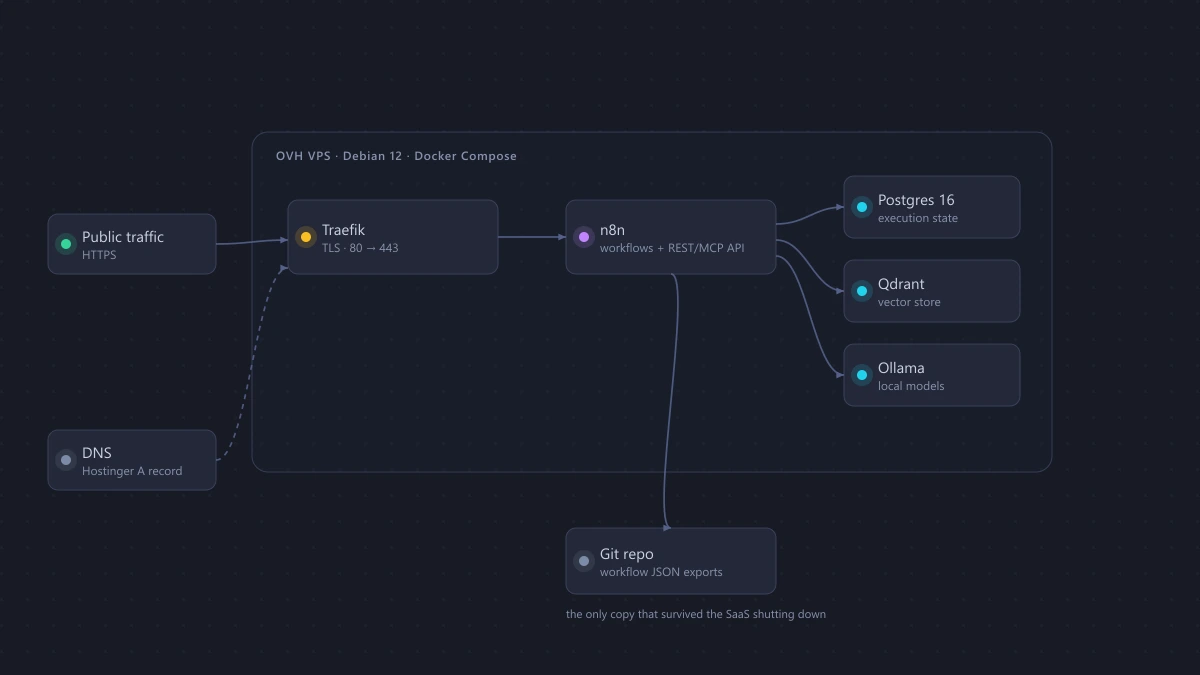
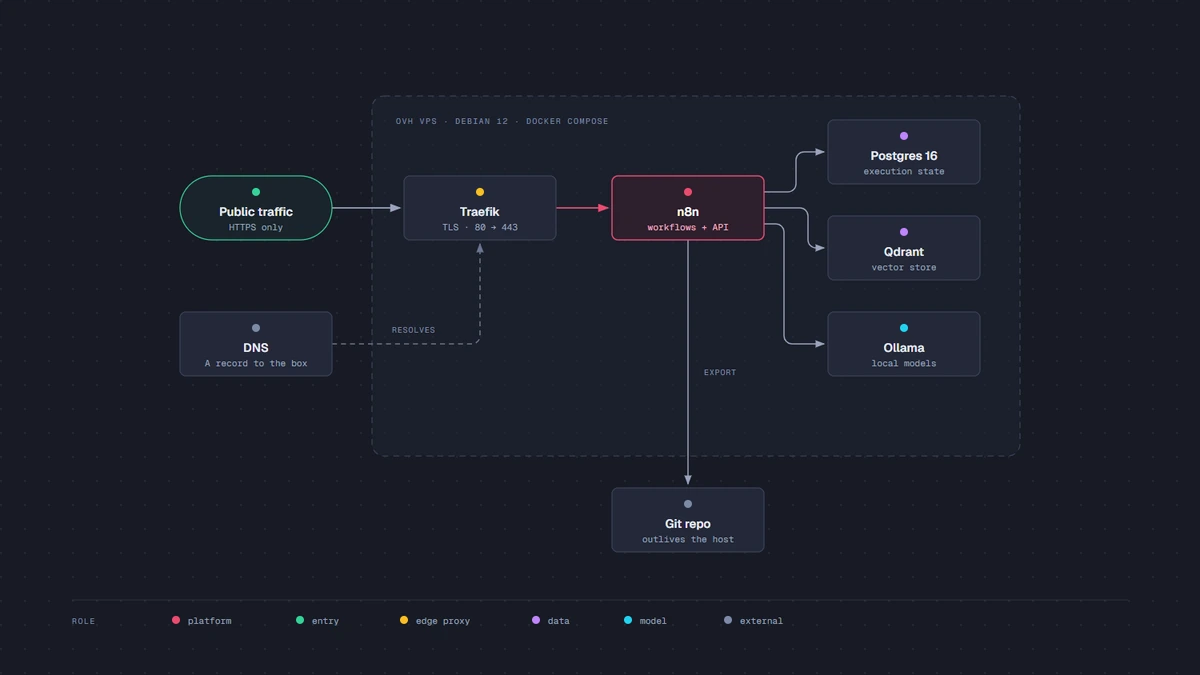
redraw the platform architecture diagram

diff --git a/scripts/diagrams/platform-architecture.html b/scripts/diagrams/platform-architecture.html
@@ -1,0 +1,137 @@
+<!DOCTYPE html>
+<html lang="en">
+<head>
+  <meta charset="UTF-8">
+  <title>Self-hosted automation platform</title>
+  <link href="https://fonts.googleapis.com/css2?family=Geist:wght@400;500;600&family=Geist+Mono:wght@400;500;600&display=swap" rel="stylesheet">
+  <style>
+    *, *::before, *::after { box-sizing: border-box; margin: 0; padding: 0; }
+    body { background: #171a24; font-family: 'Geist', system-ui, sans-serif; }
+    svg#d { width: 1200px; height: 675px; display: block; }
+  </style>
+</head>
+<body>
+  <svg id="d" viewBox="0 0 1200 675" xmlns="http://www.w3.org/2000/svg"
+       role="img" aria-labelledby="arch-title arch-desc">
+    <title id="arch-title">Self-hosted automation platform</title>
+    <desc id="arch-desc">Public traffic reaches a VPS through Traefik, which terminates TLS and hands requests to n8n. n8n keeps execution state in Postgres, vectors in Qdrant and runs local models through Ollama. DNS resolves the name to the box, and every workflow is exported to a git repository that lives outside the host.</desc>
+
+    <defs>
+      <marker id="arrow" markerWidth="8" markerHeight="6" refX="7" refY="3" orient="auto"><polygon points="0 0, 8 3, 0 6" fill="#9aa4bd"/></marker>
+      <marker id="arrow-accent" markerWidth="8" markerHeight="6" refX="7" refY="3" orient="auto"><polygon points="0 0, 8 3, 0 6" fill="#ea4b71"/></marker>
+      <marker id="arrow-soft" markerWidth="8" markerHeight="6" refX="7" refY="3" orient="auto"><polygon points="0 0, 8 3, 0 6" fill="#6b7590"/></marker>
+      <pattern id="dots" width="24" height="24" patternUnits="userSpaceOnUse"><circle cx="1" cy="1" r="1" fill="rgba(232,236,245,0.07)"/></pattern>
+    </defs>
+
+    <rect width="100%" height="100%" fill="#171a24"/>
+    <rect width="100%" height="100%" fill="url(#dots)"/>
+
+    <!-- ══ the host boundary: everything inside is one compose stack on one box ══ -->
+    <rect x="372" y="96" width="648" height="360" rx="12" fill="rgba(35,40,56,0.35)" stroke="#39415a" stroke-width="1" stroke-dasharray="6 5"/>
+    <text x="396" y="124" fill="#7f8aa5" font-size="8" font-family="'Geist Mono', monospace" letter-spacing="0.14em">OVH VPS · DEBIAN 12 · DOCKER COMPOSE</text>
+
+    <!-- ══ arrows first, so nodes paint over the stroke ends ══ -->
+
+    <!-- traffic in -->
+    <line x1="332" y1="208" x2="400" y2="208" stroke="#9aa4bd" stroke-width="1.4" marker-end="url(#arrow)"/>
+    <!-- the accented leg: the edge handing requests to the platform itself -->
+    <line x1="556" y1="208" x2="608" y2="208" stroke="#ea4b71" stroke-width="1.4" marker-end="url(#arrow-accent)"/>
+
+    <!-- name resolution is not traffic, so it is drawn dashed -->
+    <path d="M332,344 H472 a8,8 0 0 0 8,-8 V244"
+          fill="none" stroke="#6b7590" stroke-width="1.2" stroke-dasharray="5 4" marker-end="url(#arrow-soft)"/>
+    <!-- Label masks sit inside the boundary, so they take its blended fill
+         (#1b1f2b), not the page colour — a page-colour mask shows as a box. -->
+    <rect x="388" y="322" width="64" height="14" rx="2" fill="#1b1f2b"/>
+    <text x="392" y="333" fill="#7f8aa5" font-size="8" font-family="'Geist Mono', monospace" letter-spacing="0.08em">RESOLVES</text>
+
+    <!-- n8n to its three backing services: own attach point and own elbow each -->
+    <path d="M764,192 H788 a8,8 0 0 0 8,-8 V160 a8,8 0 0 1 8,-8 H824"
+          fill="none" stroke="#9aa4bd" stroke-width="1.2" marker-end="url(#arrow)"/>
+    <path d="M764,208 H800 a8,8 0 0 1 8,8 V240 a8,8 0 0 0 8,8 H824"
+          fill="none" stroke="#9aa4bd" stroke-width="1.2" marker-end="url(#arrow)"/>
+    <path d="M764,224 H776 a8,8 0 0 1 8,8 V336 a8,8 0 0 0 8,8 H824"
+          fill="none" stroke="#9aa4bd" stroke-width="1.2" marker-end="url(#arrow)"/>
+
+    <!-- the export leaves the box on purpose -->
+    <line x1="688" y1="240" x2="688" y2="484" stroke="#9aa4bd" stroke-width="1.2" marker-end="url(#arrow)"/>
+    <rect x="700" y="364" width="52" height="14" rx="2" fill="#1b1f2b"/>
+    <text x="704" y="375" fill="#7f8aa5" font-size="8" font-family="'Geist Mono', monospace" letter-spacing="0.08em">EXPORT</text>
+
+    <!-- ══ nodes ══ -->
+
+    <!-- public traffic (entry) -->
+    <rect x="180" y="176" width="152" height="64" rx="32" fill="#171a24"/>
+    <rect x="180" y="176" width="152" height="64" rx="32" fill="rgba(52,211,153,0.06)" stroke="#34d399" stroke-width="1"/>
+    <circle cx="256" cy="192" r="4" fill="#34d399"/>
+    <text x="256" y="216" fill="#e8ecf5" font-size="12" font-weight="600" text-anchor="middle">Public traffic</text>
+    <text x="256" y="230" fill="#9aa4bd" font-size="9" font-family="'Geist Mono', monospace" text-anchor="middle">HTTPS only</text>
+
+    <!-- DNS (external) -->
+    <rect x="180" y="312" width="152" height="64" rx="6" fill="#171a24"/>
+    <rect x="180" y="312" width="152" height="64" rx="6" fill="#232838" stroke="#39415a" stroke-width="1"/>
+    <circle cx="256" cy="328" r="4" fill="#7c8aa8"/>
+    <text x="256" y="352" fill="#e8ecf5" font-size="12" font-weight="600" text-anchor="middle">DNS</text>
+    <text x="256" y="366" fill="#9aa4bd" font-size="9" font-family="'Geist Mono', monospace" text-anchor="middle">A record to the box</text>
+
+    <!-- Traefik (edge) -->
+    <rect x="404" y="176" width="152" height="64" rx="6" fill="#171a24"/>
+    <rect x="404" y="176" width="152" height="64" rx="6" fill="#232838" stroke="#39415a" stroke-width="1"/>
+    <circle cx="480" cy="192" r="4" fill="#fbbf24"/>
+    <text x="480" y="216" fill="#e8ecf5" font-size="12" font-weight="600" text-anchor="middle">Traefik</text>
+    <text x="480" y="230" fill="#9aa4bd" font-size="9" font-family="'Geist Mono', monospace" text-anchor="middle">TLS · 80 → 443</text>
+
+    <!-- n8n — FOCAL: the platform the rest exists to serve -->
+    <rect x="612" y="176" width="152" height="64" rx="6" fill="#171a24"/>
+    <rect x="612" y="176" width="152" height="64" rx="6" fill="rgba(234,75,113,0.10)" stroke="#ea4b71" stroke-width="1.2"/>
+    <circle cx="688" cy="192" r="4" fill="#ea4b71"/>
+    <text x="688" y="216" fill="#ffffff" font-size="12" font-weight="600" text-anchor="middle">n8n</text>
+    <text x="688" y="230" fill="#f3aec0" font-size="9" font-family="'Geist Mono', monospace" text-anchor="middle">workflows + API</text>
+
+    <!-- Postgres (data) -->
+    <rect x="828" y="120" width="152" height="64" rx="6" fill="#171a24"/>
+    <rect x="828" y="120" width="152" height="64" rx="6" fill="#232838" stroke="#39415a" stroke-width="1"/>
+    <circle cx="904" cy="136" r="4" fill="#c084fc"/>
+    <text x="904" y="160" fill="#e8ecf5" font-size="12" font-weight="600" text-anchor="middle">Postgres 16</text>
+    <text x="904" y="174" fill="#9aa4bd" font-size="9" font-family="'Geist Mono', monospace" text-anchor="middle">execution state</text>
+
+    <!-- Qdrant (data) -->
+    <rect x="828" y="216" width="152" height="64" rx="6" fill="#171a24"/>
+    <rect x="828" y="216" width="152" height="64" rx="6" fill="#232838" stroke="#39415a" stroke-width="1"/>
+    <circle cx="904" cy="232" r="4" fill="#c084fc"/>
+    <text x="904" y="256" fill="#e8ecf5" font-size="12" font-weight="600" text-anchor="middle">Qdrant</text>
+    <text x="904" y="270" fill="#9aa4bd" font-size="9" font-family="'Geist Mono', monospace" text-anchor="middle">vector store</text>
+
+    <!-- Ollama (model) -->
+    <rect x="828" y="312" width="152" height="64" rx="6" fill="#171a24"/>
+    <rect x="828" y="312" width="152" height="64" rx="6" fill="#232838" stroke="#39415a" stroke-width="1"/>
+    <circle cx="904" cy="328" r="4" fill="#22d3ee"/>
+    <text x="904" y="352" fill="#e8ecf5" font-size="12" font-weight="600" text-anchor="middle">Ollama</text>
+    <text x="904" y="366" fill="#9aa4bd" font-size="9" font-family="'Geist Mono', monospace" text-anchor="middle">local models</text>
+
+    <!-- Git repo (external) — outside the boundary, because a backup on the
+         machine it is backing up is not a backup -->
+    <rect x="612" y="488" width="152" height="64" rx="6" fill="#171a24"/>
+    <rect x="612" y="488" width="152" height="64" rx="6" fill="#232838" stroke="#39415a" stroke-width="1"/>
+    <circle cx="688" cy="504" r="4" fill="#7c8aa8"/>
+    <text x="688" y="528" fill="#e8ecf5" font-size="12" font-weight="600" text-anchor="middle">Git repo</text>
+    <text x="688" y="542" fill="#9aa4bd" font-size="9" font-family="'Geist Mono', monospace" text-anchor="middle">outlives the host</text>
+
+    <!-- ══ legend ══ -->
+    <line x1="72" y1="600" x2="1128" y2="600" stroke="rgba(232,236,245,0.12)" stroke-width="0.8"/>
+    <text x="72" y="624" fill="#7f8aa5" font-size="8" font-family="'Geist Mono', monospace" letter-spacing="0.14em">ROLE</text>
+    <circle cx="176" cy="620" r="4" fill="#ea4b71"/>
+    <text x="188" y="624" fill="#9aa4bd" font-size="9" font-family="'Geist Mono', monospace">platform</text>
+    <circle cx="300" cy="620" r="4" fill="#34d399"/>
+    <text x="312" y="624" fill="#9aa4bd" font-size="9" font-family="'Geist Mono', monospace">entry</text>
+    <circle cx="404" cy="620" r="4" fill="#fbbf24"/>
+    <text x="416" y="624" fill="#9aa4bd" font-size="9" font-family="'Geist Mono', monospace">edge proxy</text>
+    <circle cx="536" cy="620" r="4" fill="#c084fc"/>
+    <text x="548" y="624" fill="#9aa4bd" font-size="9" font-family="'Geist Mono', monospace">data</text>
+    <circle cx="628" cy="620" r="4" fill="#22d3ee"/>
+    <text x="640" y="624" fill="#9aa4bd" font-size="9" font-family="'Geist Mono', monospace">model</text>
+    <circle cx="728" cy="620" r="4" fill="#7c8aa8"/>
+    <text x="740" y="624" fill="#9aa4bd" font-size="9" font-family="'Geist Mono', monospace">external</text>
+  </svg>
+</body>
+</html>
